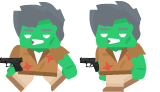
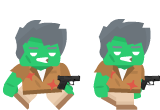
2 players_shoot

diff --git a/PROJEKT_QT/Player.cpp b/PROJEKT_QT/Player.cpp
@@ -56,18 +56,6 @@ void Player::UpdateB1(float DeltaTime)
     {
         movement.y +=speed*DeltaTime;
     }
-   //void Update attack
-//    if(sf::Keyboard::isKeyPressed(sf::Keyboard::LControl))
-//      {
-//       isFiring=true;
-//      }
-
-//      if(isFiring==true){
-//       Bullet nowakula(bulletTexture);
-//       nowakula.SetPos(sf::Vector2f(body1.getPosition().x+105,body1.getPosition().y+77));
-//       vecBullets.emplace_back(nowakula);
-//       isFiring=false;
-//    }
 
     if(movement.x>0.0f)
     {
@@ -112,15 +100,15 @@ void Player::UpdateB2(float DeltaTime)
     }
     if(movement.x>0.0f)
     {
-        faceRight=false;
+        faceRight=true;
     }
     else if(movement.x<0.0f)
     {
-        faceRight=true;
+        faceRight=false;
     }
     else
     {
-        faceRight=true;
+        faceRight=false;
     }
     animation.Update(row,DeltaTime,faceRight);
     body2.setTextureRect(animation.uvRect);
@@ -311,7 +299,7 @@ void Player::Draw(sf::RenderWindow &window)
     for(unsigned int i=0;i<vecBullets.size();i++)
     {
          vecBullets[i].draw(window);
-         vecBullets[i].fire(3);
+         vecBullets[i].fire();
     }
 
 }

diff --git a/PROJEKT_QT/Player.h b/PROJEKT_QT/Player.h
@@ -25,18 +25,28 @@ public:
     void UpdateCollisionsB2(std::vector<sf::Sprite> &Blocks,  float &dt);
 
 //DO STRZAŁÓW
-    void UpdateAttack(sf::Event &event)
+    void UpdateAttack(sf::Event &event,int  numer_gracza)
     {
+        if(numer_gracza==1){
         if(event.key.code==sf::Keyboard::LControl)
           {
-           Bullet nowakula(bulletTexture);
-           nowakula.SetPos(sf::Vector2f(body1.getPosition().x+105,body1.getPosition().y+77));
+           Bullet nowakula(bulletTexture,faceRight/*, body1.getGlobalBounds()*/ /*sf::FloatRect body*/);
+           nowakula.SetPos(sf::Vector2f(body1.getPosition().x+105,body1.getPosition().y+77));//DO konsturkotra
            vecBullets.emplace_back(nowakula);
+        }}
+        if(numer_gracza==2){
+            if(event.key.code==sf::Keyboard::RControl){
+                Bullet nowakula(bulletTexture,faceRight);
+                nowakula.SetPos(sf::Vector2f(body2.getPosition().x, body2.getPosition().y+77));
+                vecBullets.emplace_back(nowakula);
+            }
         }
     }
+
+
     bool isFiring=false;
     std::vector<Bullet> vecBullets;
-    float timer=1.0f;
+
 
 private:
 

diff --git a/PROJEKT_QT/Bullet.cpp b/PROJEKT_QT/Bullet.cpp
@@ -4,15 +4,19 @@
 
 #include "Bullet.h"
 
-void Bullet::fire(int bulletSpeed){
+void Bullet::fire(){
 
-    bullet.move(bulletSpeed,0);
+    bullet.move(bulletspeed,0);
 }
 void Bullet::draw(sf::RenderWindow &window){
     window.draw(bullet);
 }
 
-Bullet::Bullet(sf::Texture &teksturka){
+Bullet::Bullet(sf::Texture &teksturka,bool &Shotright /*sf::FloatRect body*/){
+    if(Shotright==false){
+        bulletspeed=(-std::abs(bulletspeed));
+    }
+    ///...setposition(body.x,....)
     bullet.setScale(0.3,0.3);
     bullet.setTexture(teksturka);
     //setposition nie powinno byc?

diff --git a/PROJEKT_QT/Scene.cpp b/PROJEKT_QT/Scene.cpp
@@ -204,7 +204,8 @@ void Scene::loop(sf::RenderWindow &window,Scene &scene,Menu &menu){
                         break;
                         }
                     }
-                         Soldier.UpdateAttack(event);
+                         Soldier.UpdateAttack(event,1);
+                         Zombie.UpdateAttack(event,2);
 
 ////                        if(event.key.code==sf::Keyboard::LControl){
 ////                            //Ten kod

diff --git a/PROJEKT_QT/Bullet.h b/PROJEKT_QT/Bullet.h
@@ -7,14 +7,14 @@
 class Bullet{
 
 public:
-    Bullet(sf::Texture &tekturka);
+    Bullet(sf::Texture &tekturka,bool &Shotright);
 
     void draw(sf::RenderWindow &window);
     void SetPos(sf::Vector2f newpos);
 
-    void fire(int bulletSpeed);
+    void fire();
 
 private:
-
+    float bulletspeed=3.0f;
     sf::Sprite bullet;
 };

diff --git a/PROJEKT_QT/soldier.h b/PROJEKT_QT/soldier.h
@@ -1,0 +1,11 @@
+#ifndef SOLDIER_H
+#define SOLDIER_H
+
+
+class Soldier
+{
+public:
+    Soldier();
+};
+
+#endif // SOLDIER_H

diff --git a/PROJEKT_QT/soldier.cpp b/PROJEKT_QT/soldier.cpp
@@ -1,0 +1,6 @@
+#include "soldier.h"
+
+Soldier::Soldier()
+{
+
+}
